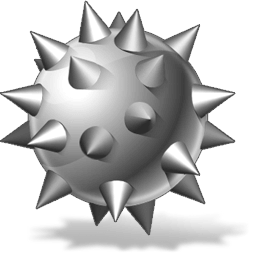
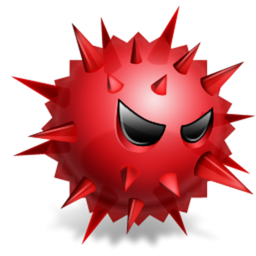
The Coordinates class and the Ranges class were created

diff --git a/src/main/java/sweeper/GameUI.java b/src/main/java/sweeper/GameUI.java
@@ -18,12 +18,14 @@ public class GameUI extends JFrame {
     private JPanel panel;
     private JLabel label;
 
-    private static final int ROWS = 1;
-    private static final int COLUMNS = 15;
+    private static final int ROWS = 9;
+    private static final int COLUMNS = 9;
     private static final int IMAGE_SIZE = 50;
     private static final int MINE_COUNT = 0;
 
     public GameUI() {
+        // Встановлюємо розміри сітки гри
+        Ranges.setSize(COLUMNS, ROWS);
         initializeImageBox();
         initializeJPanel();
         initializeJFrame();
@@ -32,8 +34,9 @@ public class GameUI extends JFrame {
     private void initializeImageBox(){
         try {
             for (Box box : Box.values()){
-                box.setImage(loadImageFromResources(box.name().toLowerCase()));
+                box.setImage(loadImageFromResources(box.name()));
             }
+            setIconImage(loadImageFromResources("icon"));
         } catch (FileNotFoundException e){
             showErrorAndExit(e.getMessage());
         }
@@ -59,12 +62,16 @@ public class GameUI extends JFrame {
             @Override
             protected void paintComponent(Graphics g) {
                 super.paintComponent(g);
-                for (Box box :  Box.values()){
-                    g.drawImage((Image) box.getImage(), box.ordinal() * IMAGE_SIZE,1, this);
+                for (Coordinate coordinate : Ranges.getAllCoordinates()){
+                    g.drawImage((Image) Box.BOMB.getImage(),
+                            coordinate.getX() * IMAGE_SIZE,
+                            coordinate.getY() * IMAGE_SIZE, this);
                 }
             }
         };
-        panel.setPreferredSize(new Dimension(COLUMNS * IMAGE_SIZE, ROWS * IMAGE_SIZE));
+        panel.setPreferredSize(new Dimension(
+                Ranges.getSize().getX() * IMAGE_SIZE,
+                Ranges.getSize().getY() * IMAGE_SIZE));
         add(panel);
     }
 

diff --git a/src/main/java/sweeper/Ranges.java b/src/main/java/sweeper/Ranges.java
@@ -1,0 +1,29 @@
+package main.java.sweeper;
+
+import java.util.ArrayList;
+
+public class Ranges {
+    private static Coordinate size; // Розміри сітки гри
+    private static final ArrayList<Coordinate> allCoordinates = new ArrayList<Coordinate>();
+
+    public static Coordinate getSize() {
+        return size;
+    }
+
+    public static void setSize (int columns, int rows){
+        size = new Coordinate(columns, rows);
+        setSize();
+    }
+
+    public static void setSize() {
+        for (int x = 0; x < size.getX(); x++) {
+            for (int y = 0; y < size.getY(); y++) {
+                allCoordinates.add(new Coordinate(x,y));
+            }
+        }
+    }
+
+    public static ArrayList<Coordinate> getAllCoordinates(){
+        return allCoordinates;
+    }
+}

diff --git a/src/main/java/sweeper/Coordinate.java b/src/main/java/sweeper/Coordinate.java
@@ -1,0 +1,27 @@
+package main.java.sweeper;
+
+public class Coordinate{
+    private int x;
+    private int y;
+
+    public Coordinate(int x, int y){
+        this.x = x;
+        this.y = y;
+    }
+
+    public int getX() {
+        return x;
+    }
+
+    public void setX(int x) {
+        this.x = x;
+    }
+
+    public int getY() {
+        return y;
+    }
+
+    public void setY(int y) {
+        this.y = y;
+    }
+}

diff --git a/src/main/java/Main.java b/src/main/java/Main.java
@@ -1,7 +1,6 @@
 package main.java;
 
 import main.java.sweeper.GameUI;
-
 import javax.swing.SwingUtilities;
 
 public class Main {
